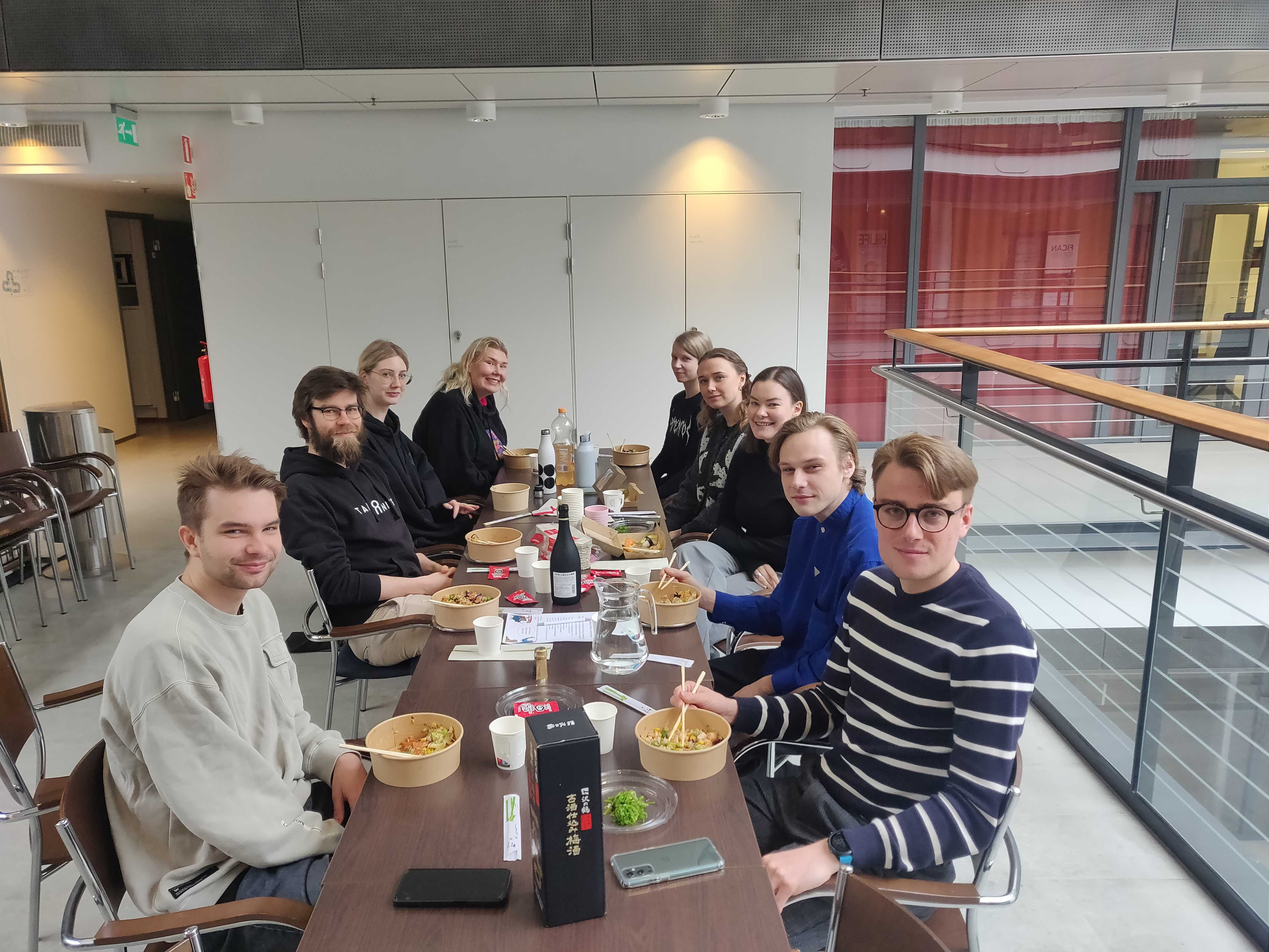
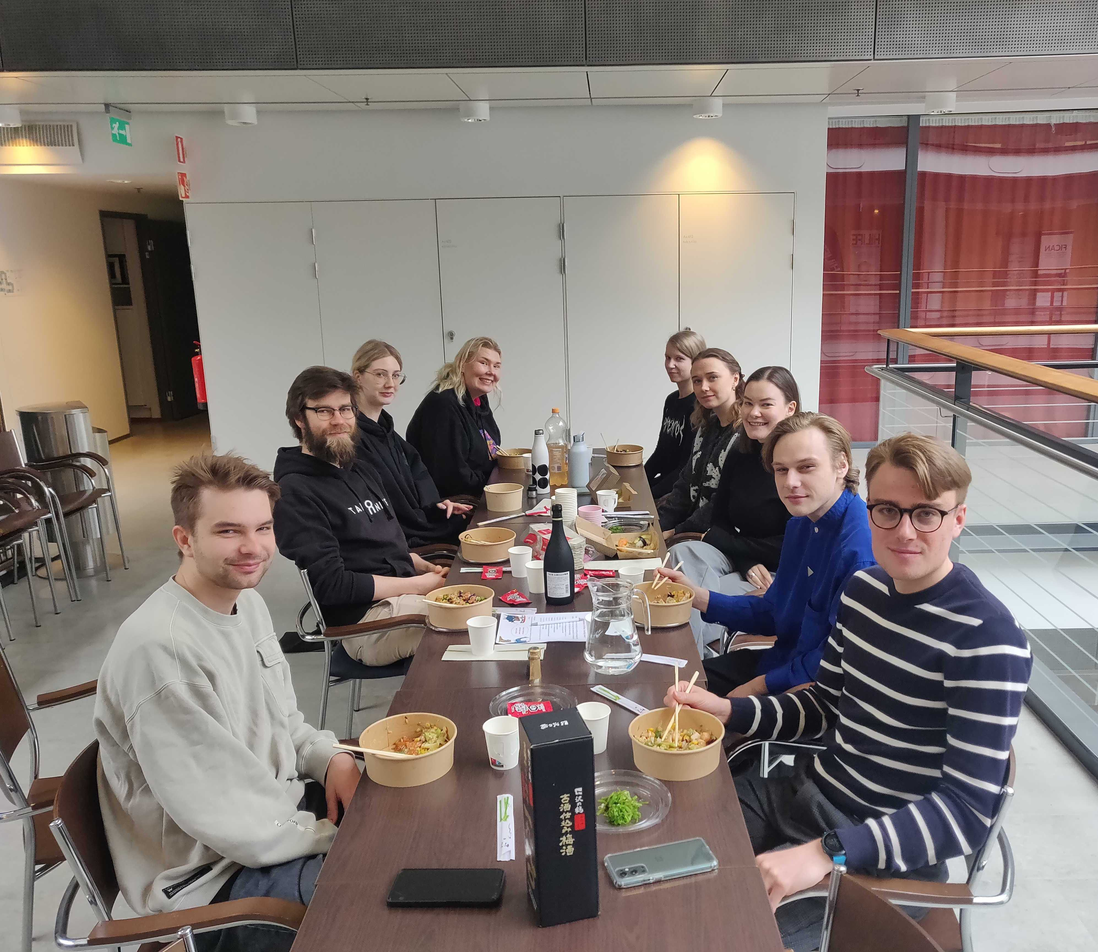
labfun

diff --git a/_includes/gallery1.html b/_includes/gallery1.html
@@ -1,0 +1,34 @@
+{%- assign max = 0 -%}
+
+{%- for i in (1..100) -%}
+  {%- assign image = "image" | append: i -%}
+  {%- assign image = include[image] -%}
+  {%- if image -%}
+    {%- assign max = i -%}
+  {%- endif -%}
+{%- endfor -%}
+
+<div class="gallery" data-style="{{ include.style }}" data-number="{{ max }}">
+  <div class="gallery-row">
+    {%- for i in (1..max) -%}
+      {%- assign image = "image" | append: i -%}
+      {%- assign image = include[image] -%}
+      {%- assign tooltip = "tooltip" | append: i -%}
+      {%- assign tooltip = include[tooltip] -%}
+      {%- assign link = "link" | append: i -%}
+      {%- assign link = include[link] -%}
+
+      {%- if image -%}
+        <a
+          {% if link %}href="{{ link | relative_url }}"{% endif %}
+          class="gallery_item"
+          data-tooltip="{{ tooltip }}"
+        >
+          <img src="{{ image | relative_url }}" loading="lazy">
+        </a>
+      {%- endif -%}
+
+      {%- if loop.index % 2 == 0 %}  </div><div class="gallery-row">  {%- endif -%}
+    {%- endfor -%}
+  </div>
+</div>

diff --git a/team/index.md b/team/index.md
@@ -50,15 +50,14 @@ filters="role: undergrad"
 
 <br/><br/>
 
-## Gallery
+# <i class="fa-solid fa-sun"></i>Lab fun
 
-Lab fun
-{:.center}
+{% include section.html background="images/banner.jpg" dark=true%}
 
 
 {%
-  include gallery.html
-  style="rectangle"
+  include gallery1.html
+  style="square"
 
   image1="images/labfun/lunch2024.jpg"
   link1=""
